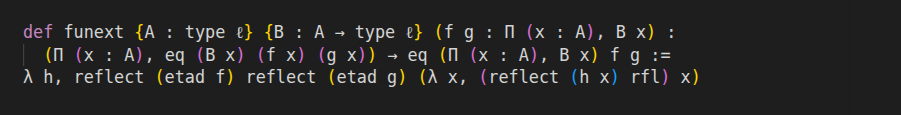
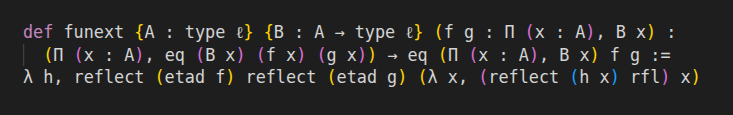
documentation

Changed region(s): [[0.0, 0.6, 0.9604, 0.7565], [0.03, 0.3913, 0.9304, 0.5739], [0.0, 0.2087, 0.9304, 0.3652]]

diff --git a/doc/README.md b/doc/README.md
@@ -3,15 +3,11 @@
 Pearl implements a variant of computational type theory like NuPRL [[1](#NuPRL)] and its descendents [[2](#MetaPRL), [3](#JonPRL), [4](#RedPRL)]. More precisely, the system serves as a "window on the truth" with respect to an intended informal realizability semantics defined independently of any formal theory. Inspired by Martin-Löf's early work [[5](#CMCP)], computational type theory views programs as realizers and not as formal proofs in a fixed and necessarily incomplete formal theory. See [[6](#CON09), [7](#STE15)] for accessible introductions. 
 We began the present implementation [here](https://github.com/bbentzen/cube) in 2019 using cubical features. After a long break due to research on the philosophical roots of computational type theory, the project was resumed in the summer of 2026 due to a confluence of reasons. The most important motivation is the completion of the monograph "Philosophical Type Theory" [[8](#BEN27)], which contains the most systematic exposition and defense of computational type theory to date, building on some key insights of Brouwer and Bishop on anti-formalism and human cognition. Pearl is an implementation of this dialect of computational type theory. Moreover, as Christoph Kreitz explains [here](https://proofassistants.stackexchange.com/q/2346/1048), the NuPRL group has in effect been disbanded and the original system is no longer easily accessible. RedPRL remains an excellent alternative, but we believe that cubical features may present a distraction from the premathematical essence of the computational view of type theory. Indeed, Pearl owes its very existence to the realization that the original implementation mentioned above, which was based on a cubical alternative to extensional type theory, could be decubicalized in a practical way.
 
-**Feature Summary.** Although inspired by NuPRL, Pearl deviates from it in two important ways. 
+**Feature Summary.** Although inspired by NuPRL, Pearl deviates from it in two important ways: 
 
 1. Pearl is intended to be consistent with classical reasoning in Bishop-style, while the latest versions of NuPRL ultimately favored the formalization of intuitionistic mathematics, including the accommodation of continuity principles, free choice sequences, and elements of Brouwer's creating subject arguments [[10](#RBC17), [11](#BCC18), [12](#CON20)]. We believe that this incompatibility with classical mathematics is orthogonal to the computational view of type theory [[8](#BEN27)]. 
 
-2. 
-
-3. Pearl operates without a top-level layer of proof refinment logic as NuPRL, where users decompose proof goals into subgoals by means of refinement rules to extract realizers. Instead, Pearl is designed to get around the difficulties involving undecidable extensional equality without going too far beyond a proof term language in a style reminiscent of Andromeda [[9](#Andromeda)]. But while Andromeda is based on an explicitly typed language of algebraic effects and handlers intended to accommodate different user-definable rules for equality in general, Pearl is specifically based on a untyped programming language for computational type theory extended with only two opaque operations for reflection and explosion. 
-
-As a case in point, note that this allows Pearl to prove function extensionality directly, in contrast to its usual status as a primitive rule in systems like NuPRL or Andromeda:
+2. Pearl operates without a top-level layer of proof refinment logic as NuPRL, where users decompose proof goals into subgoals by means of refinement rules to extract realizers. Instead, Pearl is designed to get around the difficulties involving undecidable extensional equality without going too far beyond a proof term language in a style reminiscent of Andromeda [[9](#Andromeda)]. But while Andromeda is based on an explicitly typed language of algebraic effects and handlers intended to accommodate different user-definable rules for equality in general, Pearl is specifically based on a untyped programming language for computational type theory extended with only two opaque operations for reflection and explosion. As a case in point, note that this allows Pearl to prove function extensionality directly, in contrast to its usual status as a primitive rule in systems like NuPRL or Andromeda:
 
 <p align="center">
   <img src="https://github.com/bbentzen/pearl/blob/main/doc/assets/funext.png?raw=true" />
@@ -41,23 +37,24 @@ formulation of universes à la Russell.
 
 ## Usage
 
-There are a number of commands for inductively defining type families, entering the proof environment, type inference, term evaluation, importing files for the modularizion of proofs, declaring universe levels, and extracting and priting terms from definitions and theorems:
+We recommend using the [pearl-vscode extension](https://github.com/bbentzen/pearl/tree/main/vscode) for verification support. Once you are all set, note that you can use the following commands for inductively defining type families, entering the proof environment, type inference, term evaluation, importing files for the modularizion of proofs, declaring universe levels, and extracting and priting terms from definitions and theorems:
 
 ### Inductive environment
 
+This environment is used to introduce inductively defined type families. Inductive type declarations must be predicative, meaning that the target type must not live in a universe level that is lower than a universe level occurring as a parameter or argument. They must also be strictly positive, in that roughly the defined type never occurs in a ill-founded way. Finally, to avoid redundency, Pearl does not allow for empty inductive type declarations given that the empty type is already taken as primitive.
+
 The syntax for defining an indexed inductive type is:
 
-```inductive foo : type l
+```inductive foo [context] : type l
 | constructor1 : ... → foo
 | constructor2 : ... → foo
 ...
 | constructorn : ... → foo
 ```
-To avoid redundency, Pearl does not allow for empty inductive type declarations given that the empty type is already taken as primitive.
 
 ### Proof environment
 
-The proof environment is the main command where definitions are stated and theorems and lemmas are proven. Syntactically speaking, there is no difference between defintitions and theorems and lemmas. Users can use `def`, `definition`, `thm`, `theorem`, `lem`, and `lemma` interchangeably.
+The proof environment is the main command where definitions are stated and theorems and lemmas are proven. Users can use the labels `def`, `definition`, `abbrev`, `abbreviation` for definitions and `thm`, `theorem`, `lem`, and `lemma` for theorems. There is a subtle difference between definitions and theorems. Defined terms will always unfold at elaboration time, but not proofs of theorems. 
 
 ```
   def [name-of-theorem] [context] :
@@ -65,14 +62,6 @@ The proof environment is the main command where definitions are stated and theor
 ```
 
 Contexts are lists of variable declarations. Explicit variables are enclosed with `(` and `)` and must be passed as parameters when the definition or theorem is reused later. Implicit variables are enclosed with curly braces `{` and `}` and can be inferred by the elaborator. Multiple variables of the same type can be declared at the same time.
-
-
-Primitive types | Notation | Constructors | Eliminators
------------- | ------------- | ------------- | -------------
-Dependent function type	| Π (x : M), N | λ x , M | M N
-Equality type | eq K M N | refl M | 
-Empty type | void | | 
-Universe type | type n | 
 
 In addition, the user can also have `_` and `?` as placeholders in any expression. The former is used to synthesize an implicit assumption or fail after a number of steps, evaluating and displaying the type of the current goal. The latter is used to display the type of current goal directly without evaluation.
 
@@ -86,11 +75,13 @@ The syntax for type inference is:
 
 ### Evaluation
 
-Pearl does not rely on normalization-by-evaluation. Instead, evaluation is untyped due to philosophical reasons having to do with closer adherence to the meaning explanations of type theory. The syntax for term evaluation is:
+Pearl does not rely on normalization-by-evaluation. Instead, evaluation is untyped due to philosophical reasons having to do with closer adherence to the computational view of type theory. The syntax for term evaluation is:
 
 ```
   eval foo
 ```
+
+Like NuPRL, Pearl's notion of evaluation only relies on beta-reduction. Eta-conversion is handled at elaboration time.
 
 ### File import
 
@@ -100,7 +91,7 @@ This command imports a specified file into the current file. The syntax is
 
 ### Universe declaration 
 
-This declares a universe level variable according to the syntax 
+This declares a universe level variable according to the syntax:
 
 `universe [id]`
 
